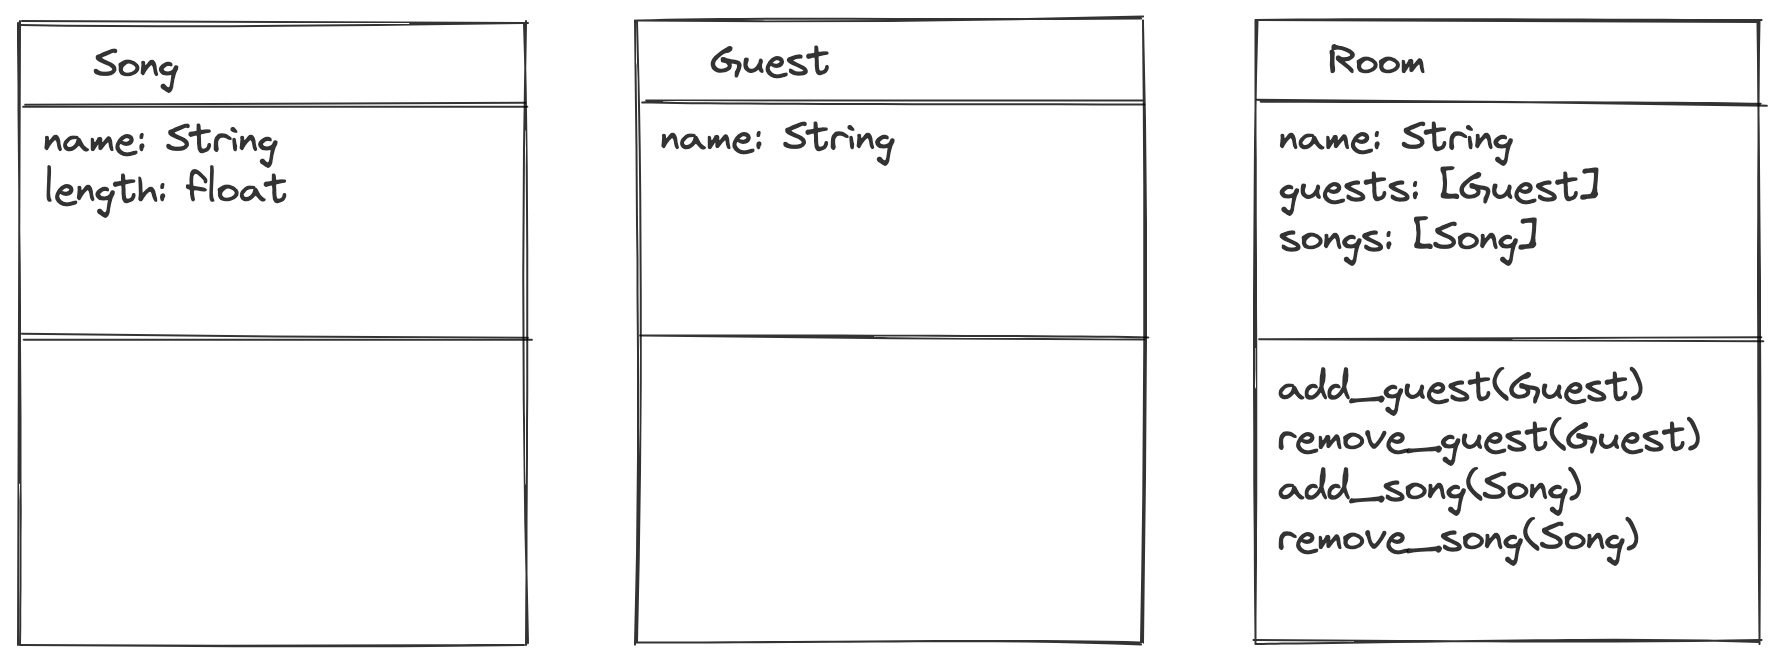
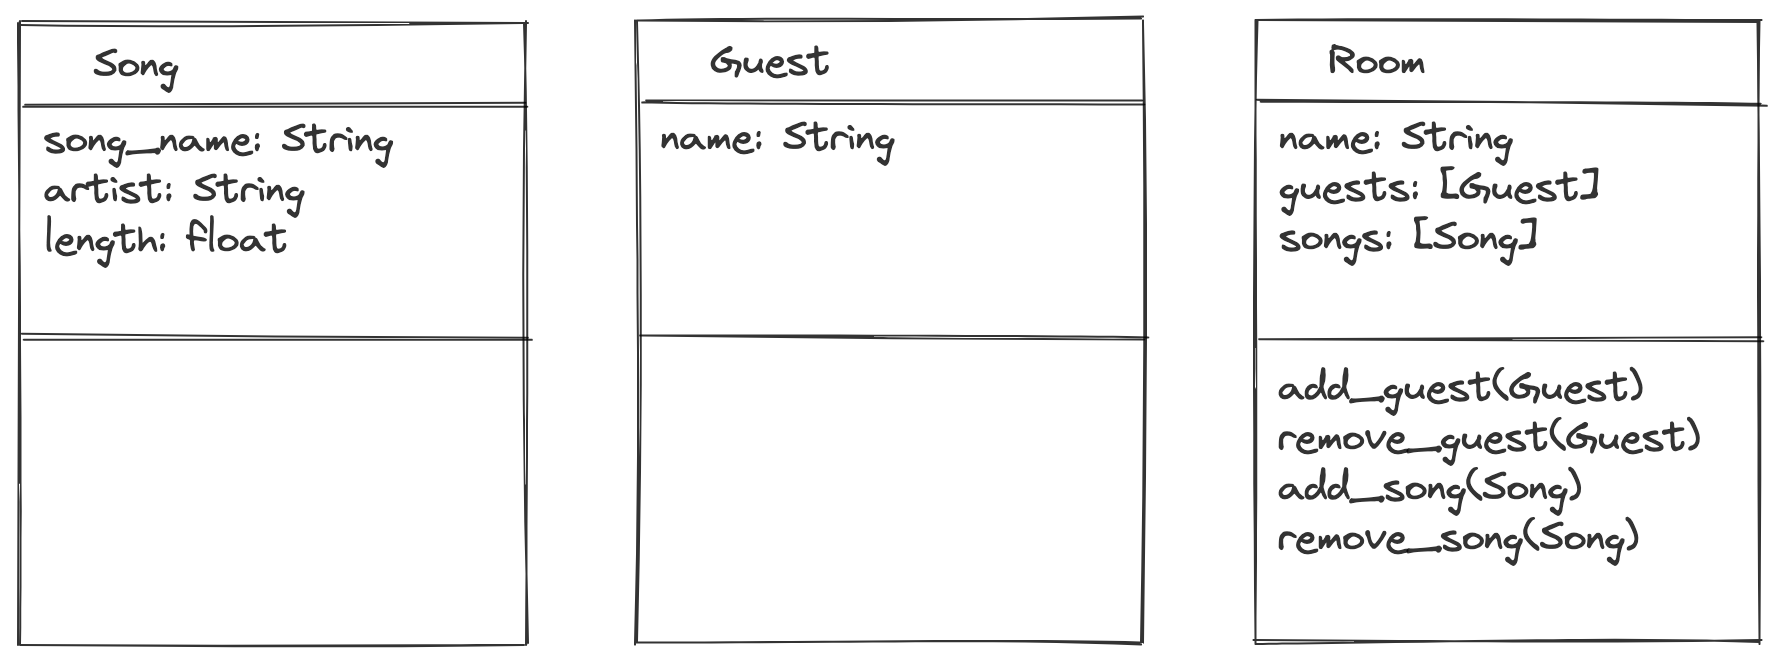
Created song class and tested has attributes

Changed region(s): [[0.0, 0.1807, 0.2157, 0.3916]]

diff --git a/Karaoke/tests/song_test.py b/Karaoke/tests/song_test.py
@@ -1,0 +1,22 @@
+import unittest
+from src.song import Song
+
+class TestSong(unittest.TestCase):
+
+    def setUp(self):
+        self.song = Song("Dry the rain", "The Beta Band", 6.06)
+
+    def test_song_has_name(self):
+        expected = "Dry the rain"
+        result = self.song.song_name
+        self.assertEqual(expected, result)
+
+    def test_song_has_name(self):
+        expected = "The Beta Band"
+        result = self.song.artist
+        self.assertEqual(expected, result)
+
+    def test_song_has_name(self):
+        expected = 6.06
+        result = self.song.song_length
+        self.assertEqual(expected, result)

diff --git a/Karaoke/run_tests.py b/Karaoke/run_tests.py
@@ -1,6 +1,6 @@
 import unittest
-from tests.guest_test import TestGuest
-from tests.room_test import TestRoom
+# from tests.guest_test import TestGuest
+# from tests.room_test import TestRoom
 from tests.song_test import TestSong
 
 if __name__ == '__main__':

diff --git a/Karaoke/src/song.py b/Karaoke/src/song.py
@@ -1,0 +1,6 @@
+class Song:
+
+    def __init__(self, song_name, artist, song_length):
+        self.song_name = song_name
+        self.artist = artist
+        self.song_length = song_length
